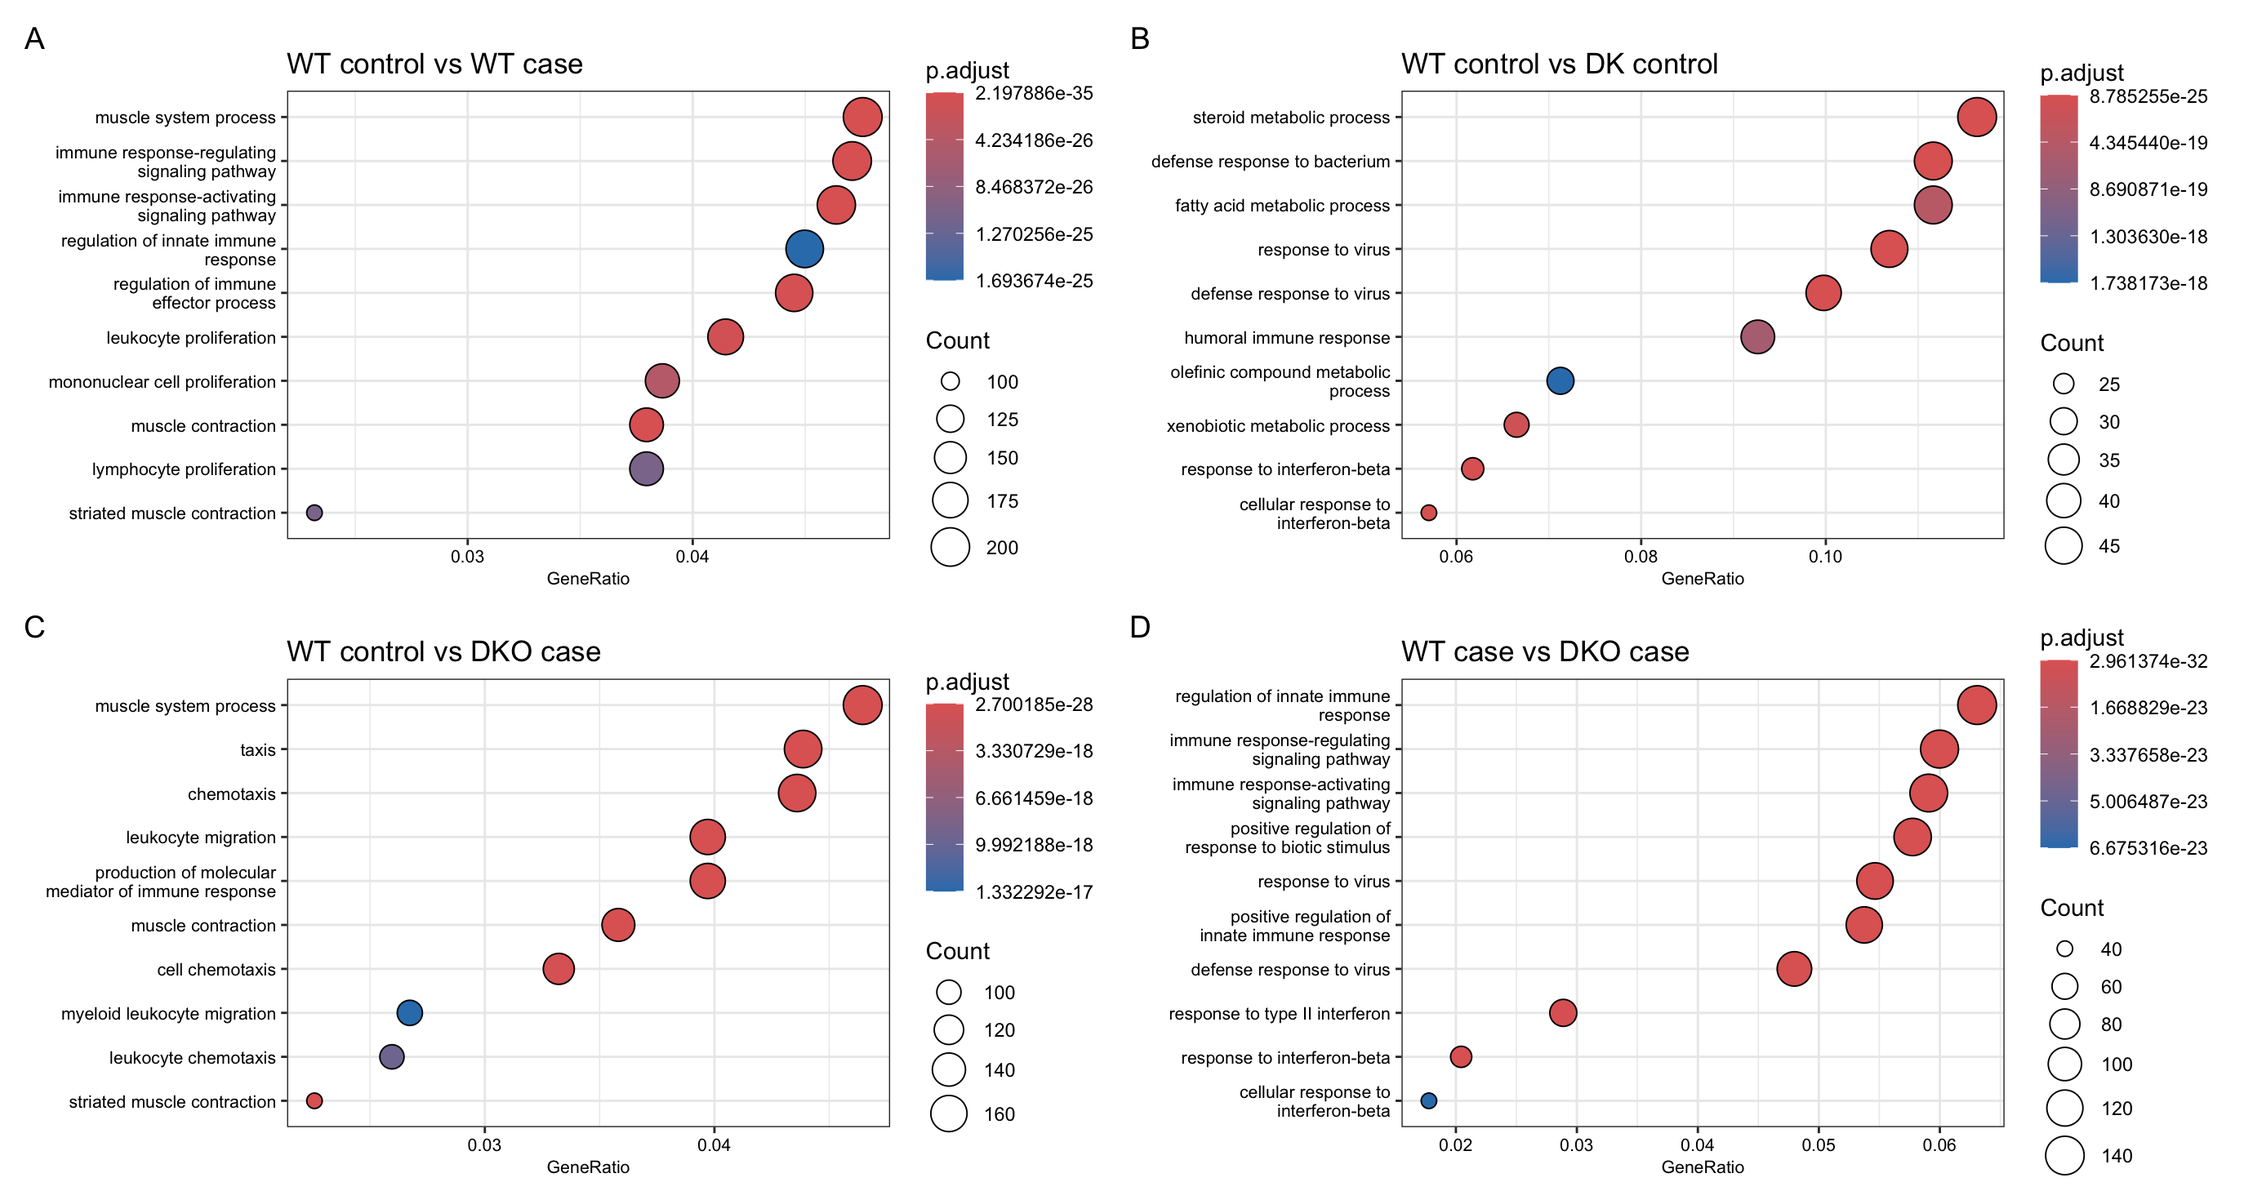
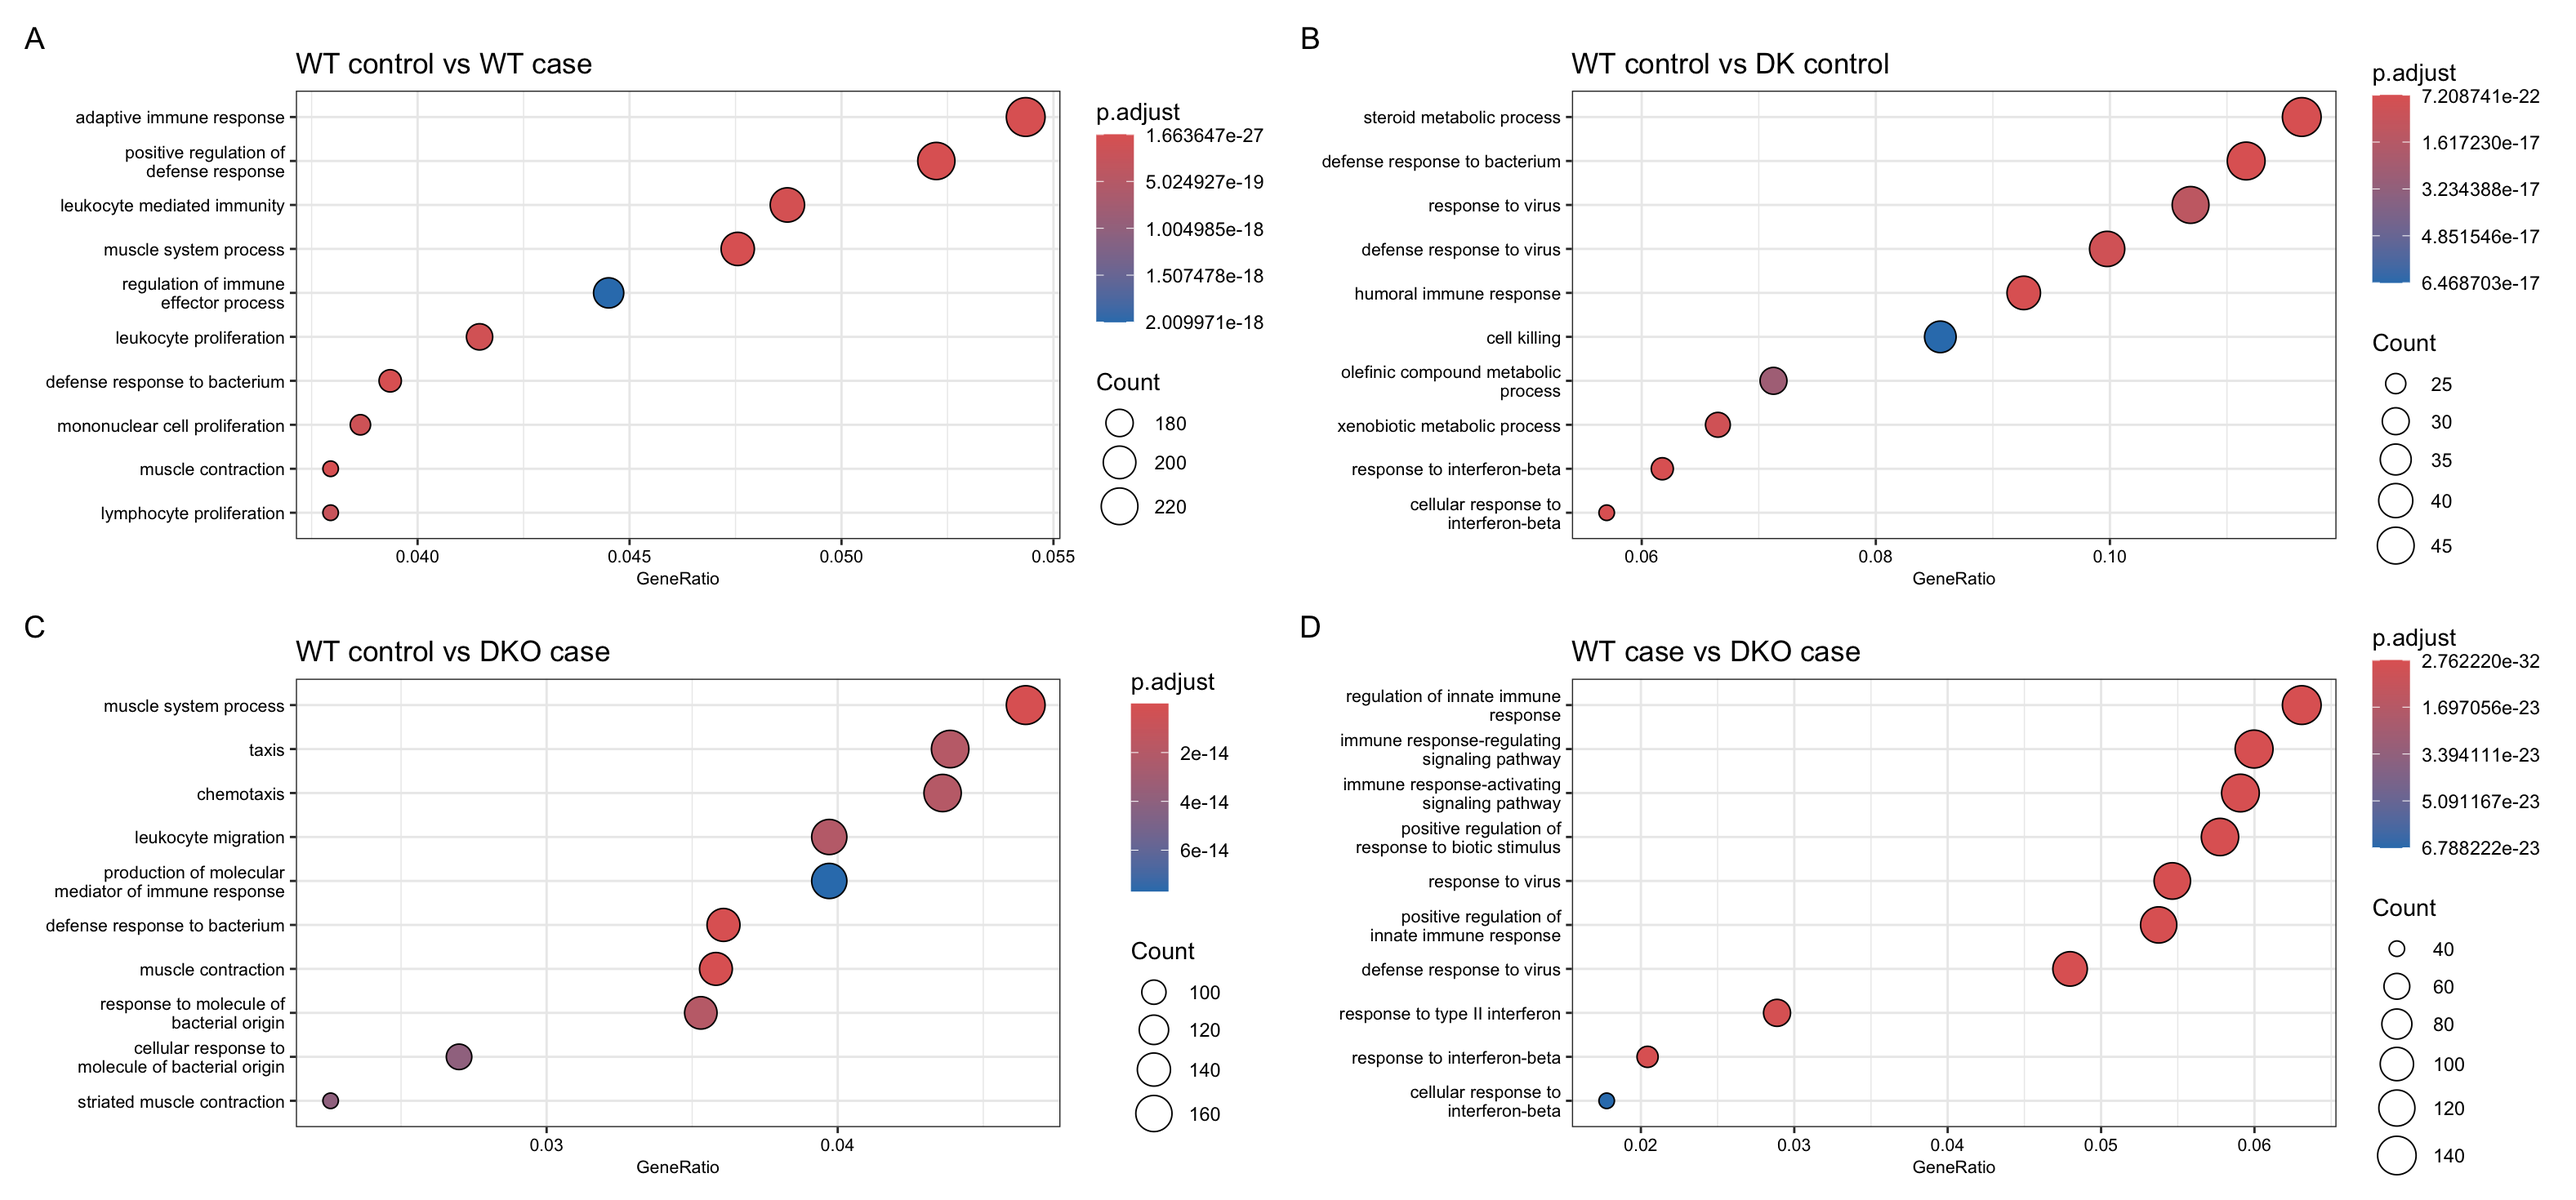
Modifying Overrepresentation analysis by adding the univers in enrichOG function and specifying GO terms of interess and Edit readme.md by adding the results of this step.

diff --git a/readme.md b/readme.md
@@ -65,7 +65,7 @@ The second result of featureCounts is a summary text file. This summary text fi
 
 ### Exploratory data analysis
 
-At this stage of the analysis, the featureCounts results, together with the sample metadata, were integrated into a DESeqDataSet object using the DESeq2 package (v1.46.0). A Variance Stabilizing Transformation (VST) was then applied to the count matrix, without considering the experimental groups (blind=TRUE).
+At this stage of the analysis, the featureCounts results, together with the sample metadata, were integrated into a DESeqDataSet object using the [DESeq2](https://bioconductor.org/packages/release/bioc/html/DESeq2.html) package (v1.46.0). A Variance Stabilizing Transformation (VST) was then applied to the count matrix, without considering the experimental groups (blind=TRUE).
 The resulting VST-normalized matrix was used for Principal Component Analysis (PCA), focusing on the 500 most variable genes, to visualize how the samples cluster based on their gene expression profiles.
 
 ### Differential expression analysis
@@ -263,11 +263,7 @@ Fig. 8 : The top 10 GO terms detected per pairwise comparisons
 
 <img height="650" src="./imgs/image_5.png" width="800"/>
 
-Fig. 9 : Gene connect network per pairwise comparisons for Type I IFN/Ifit/Oas
-
-<img height="650" src="./imgs/image_6.png" width="800"/>
-
-Fig. 10 : Gene connect network per pairwise comparisons for Ifng/Gbp/Antigen presentation
+Fig. 9 : Gene connect network per pairwise comparisons for Type I IFN/Ifit/Oas and Ifng/Gbp/Antigen presentation
 
 ## Project structure
 
